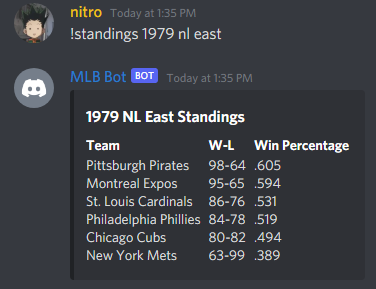
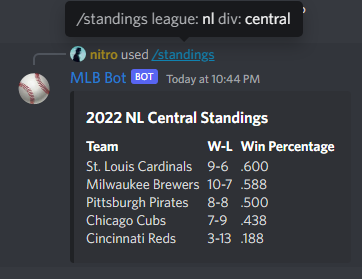
Moved to Pycord, reworked pretty much everything.

diff --git a/main.py b/main.py
@@ -4,15 +4,15 @@ import statsapi
 import pytz
 from datetime import datetime
 from dateutil import parser
-from dateutil.tz import tzutc, tzlocal
-from pybaseball import playerid_lookup, statcast_pitcher, standings, top_prospects
+from pybaseball import standings
 from datetime import date
 from dotenv import load_dotenv
-from discord.ext import commands
+from teamInfo import teamList
+from divInfo import divList
 
 load_dotenv()
 
-bot = commands.Bot(command_prefix="!")
+bot = discord.Bot()
 
 today = date.today()
 todayDate = today.strftime("%m/%d/%Y")
@@ -23,70 +23,58 @@ async def on_ready():
     print('We have logged in as {0.user}'.format(bot))
 
 
-@bot.command(name='player')
-async def player(ctx, firstName, lastName):
-    pid = playerid_lookup(lastName, firstName)
-    await ctx.send(pid)
+@bot.command(name='player', description="Display's a player's current season or career stats. Defaults to current season.")
+async def player(ctx, playername: discord.Option(str, required=True), scope: discord.Option(str, choices=["season"], default="season", required=False)):
+    statType=scope
+    player = statsapi.lookup_player(playername)
+    pid = player[0]['id']
+    playerName = player[0]['fullName']
+    position = player[0]['primaryPosition']['abbreviation']
+    
+    if position == "TWP":
+        twpData = statsapi.player_stat_data(pid, group="[hitting,pitching]", type=statType)
+        season = twpData['stats'][0]['season']
+        batting = twpData['stats'][0]['stats']
+        pitching = twpData['stats'][1]['stats']
 
+        battingStats = playerName + " " + season + " Batting Stats\n"  + str(batting['atBats']) + " AB\t" + str(batting['avg']) + " AVG\t" + str(batting['homeRuns']) + " HR\t" \
+        + str(batting['rbi']) + " RBI\n\n"
 
-@bot.command(name='prospects')
-async def prospects(ctx, team):
-    data = top_prospects(team)
-    rank = data.iloc[0:9, 0:1]
-    playerName = data.iloc[0:9, 1:2]
-    age = data.iloc[0:9, 2:3]
-    rank = rank.to_string(index=False, header=False)
-    playerName = playerName.to_string(index=False, header=False)
-    age = age.to_string(index=False, header=False)
-    embed = discord.Embed(title=team.capitalize() + " Top 10 Prospects")
-    embed.add_field(name="Rank", value=rank, inline=True)
-    embed.add_field(name="Player", value=playerName, inline=True)
-    embed.add_field(name="Age", value=age, inline=True)
-    await ctx.send(embed=embed)
+        pitchingStats = playername + " " + season + " Pitching Stats\n"  + str(pitching['wins']) + "-" + str(pitching['losses']) + " W/L\t" + str(pitching['era']) + " ERA\t" \
+        + str(pitching['inningsPitched']) + " IP\t" + str(pitching['gamesPlayed']) +" GP\t"
 
+        stats = battingStats + pitchingStats
 
-@bot.command(name='standings')
-async def divisionStandings(ctx, *args):
-    if(len(args) == 3):
-        year = int(args[0])
-        league = args[1]
-        div = args[2]
+        await ctx.respond(stats)
+    elif position == "P":
+        statData = statsapi.player_stat_data(pid, group="[pitching]", type=statType)
+        pitching = statData['stats'][0]['stats']
+        season = statData['stats'][0]['season']
+
+        stats = playerName + " " + season + " Pitching Stats\n\n"  + str(pitching['wins']) + "-" + str(pitching['losses']) + " W/L\t" + str(pitching['era']) + " ERA\t" \
+        + str(pitching['inningsPitched']) + " IP\t" + str(pitching['gamesPlayed']) +" GP\t"
+
+        await ctx.respond(stats)
     else:
-        year = today.year()
-        league = args[0]
-        div = args[1]
+        statData = statsapi.player_stat_data(pid, group="[hitting]", type=statType)
+        batting = statData['stats'][0]['stats']
+        season = statData['stats'][0]['season']
+
+        stats = playerName + " " + season + " Batting Stats\n"  + str(batting['atBats']) + " AB\t" + str(batting['avg']) + " AVG\t" + str(batting['homeRuns']) + " HR\t" \
+        + str(batting['rbi']) + " RBI\n\n"
+        await ctx.respond(stats)
+        
+
+@bot.command(name='standings', description="Displays division standings for specified year. Defaults to current year.")
+async def divisionStandings(ctx, league: discord.Option(str), div: discord.Option(str), year: discord.Option(str, required=False, default = date.today().year)):
+    await ctx.defer()
     divDisplay = (league.upper() + " " + div.capitalize())
-    if(league.upper() == "AL"):
-        if(div.upper() == "EAST"):
-            divPass = 0
-        elif(div.upper() == "CENTRAL"):
-            if(year >= 1994):
-                divPass = 1
+    for i in divList:
+        if (divDisplay == i['name']):
+            if year >= 1994:
+                divPass = i['postRealignmentID']
             else:
-                await ctx.send(divDisplay + " does not exist in that year.")
-        elif(div.upper() == "WEST"):
-            if(year <= 1994):
-                divPass = 1
-            else:
-                divPass = 2
-    elif(league.upper() == "NL"):
-        if(div.upper() == "EAST"):
-            if(year <= 1994):
-                divPass = 2
-            else:
-                divPass = 3
-        elif(div.upper() == "CENTRAL"):
-            if(year >= 1994):
-                divPass = 4
-            else:
-                await ctx.send(divDisplay + " does not exist in that year.")
-        elif(div.upper() == "WEST"):
-            if(year >= 1994):
-                divPass = 5
-            else:
-                divPass = 3
-    else:
-        await ctx.send("You have entered an invalid league.")
+                divPass = i['preRealignmentID']
     try:
         data = standings(year)[divPass]
         i = 0
@@ -106,23 +94,21 @@ async def divisionStandings(ctx, *args):
             j += 1
         winPct = data.iloc[0:j, 3:4]
         winPct = winPct.to_string(index=False, header=False)
-        embed = discord.Embed(title=str(year) + " " +
-                              divDisplay + " Standings")
+        embed = discord.Embed(title=str(year) + " " + divDisplay + " Standings")
         embed.add_field(name="Team", value=teamList, inline=True)
         embed.add_field(name="W-L", value=winLoss, inline=True)
         embed.add_field(name="Win Percentage", value=winPct, inline=True)
-        await ctx.send(embed=embed)
+        await ctx.respond(embed=embed)
     except UnboundLocalError:
-        pass
+        await ctx.respond("You have entered an invalid division.")
+    except TypeError:
+        await ctx.respond("You have entered a division that does not exist in " + str(year) + ".")
 
 
-@bot.command(name='games')
-async def dateGames(ctx, *args):
-    if (len(args) == 0):
-        datePass = today
-    else:
-        datePass = args[0]
-    games = statsapi.schedule(date=datePass)
+@bot.command(name='games', description="Displays all games for a specified date. Defaults to current day.")
+async def dateGames(ctx, date: discord.Option(str, required=False, default=today)):
+    await ctx.defer()
+    games = statsapi.schedule(date=date)
     timeZone = pytz.timezone("America/Detroit")
     now = datetime.now()
     gameText = ""
@@ -131,17 +117,29 @@ async def dateGames(ctx, *args):
         gameLocal = gameUtc.astimezone(timeZone)
         currentTime = now.astimezone(timeZone)
         gameTime = datetime.strftime(gameLocal, '%I:%M %p %Z')
+        for y in teamList:
+            if (x['away_name'] == y['name']):
+                awayTeam = y['fileCode'].upper()
+            if (x['home_name'] == y['name']):
+                homeTeam = y['fileCode'].upper()
         if (gameLocal > currentTime):
-            gameText += (x['away_name'] + " at " +
-                         x['home_name'] + " - " + gameTime + "\n")
+            gameText += (awayTeam + " at " +
+                         homeTeam + " - " + gameTime + "\n")
         else:
             if(x['status'] == "In Progress"):
-                gameText += (x['away_name'] + " (" + str(x['away_score']) + ") at " + x['home_name'] + " (" + str(
-                    x['home_score']) + ") - " + x['inning_state'].capitalize() + x['current_inning'] + "\n")
+                gameText += (awayTeam + " (" + str(x['away_score']) + ") at " + homeTeam + " (" + str(x['home_score']) + ") - " + x['inning_state'].capitalize() + " " + str(x['current_inning']) + "\n")
             else:
-                gameText += (x['away_name'] + " (" + str(x['away_score']) + ") at " +
-                             x['home_name'] + " (" + str(x['home_score']) + ") - " + x['status'] + "\n")
-    await ctx.send(gameText.rstrip())
+                gameText += (awayTeam + " (" + str(x['away_score']) + ") at " +
+                             homeTeam + " (" + str(x['home_score']) + ") - " + x['status'] + "\n")
+    await ctx.respond(gameText.rstrip())
 
+
+@bot.command(name='lastgame', description="Displays the line score from the specified team's last game.")
+async def lastGame(ctx, team: discord.Option(str, required=True)):
+    for y in teamList:
+        if (team.casefold() == y['teamName'].casefold()):
+            teamID = y['id']
+    lastGame = statsapi.last_game(teamID)
+    await ctx.respond("```"+ statsapi.linescore(lastGame) + "```")
 
 bot.run(os.getenv('TOKEN'))

diff --git a/teamInfo.py b/teamInfo.py
@@ -1,0 +1,31 @@
+teamList = [
+{'id': 109, 'name': 'Arizona Diamondbacks', 'teamCode': 'ari', 'fileCode': 'ari', 'teamName': 'D-backs', 'locationName': 'Phoenix', 'shortName': 'Arizona'}, 
+{'id': 144, 'name': 'Atlanta Braves', 'teamCode': 'atl', 'fileCode': 'atl', 'teamName': 'Braves', 'locationName': 'Atlanta', 'shortName': 'Atlanta'}, 
+{'id': 110, 'name': 'Baltimore Orioles', 'teamCode': 'bal', 'fileCode': 'bal', 'teamName': 'Orioles', 'locationName': 'Baltimore', 'shortName': 'Baltimore'}, 
+{'id': 111, 'name': 'Boston Red Sox', 'teamCode': 'bos', 'fileCode': 'bos', 'teamName': 'Red Sox', 'locationName': 'Boston', 'shortName': 'Boston'}, 
+{'id': 112, 'name': 'Chicago Cubs', 'teamCode': 'chn', 'fileCode': 'chc', 'teamName': 'Cubs', 'locationName': 'Chicago', 'shortName': 'Chi Cubs'}, 
+{'id': 145, 'name': 'Chicago White Sox', 'teamCode': 'cha', 'fileCode': 'cws', 'teamName': 'White Sox', 'locationName': 'Chicago', 'shortName': 'Chi White Sox'}, 
+{'id': 113, 'name': 'Cincinnati Reds', 'teamCode': 'cin', 'fileCode': 'cin', 'teamName': 'Reds', 'locationName': 'Cincinnati', 'shortName': 'Cincinnati'}, 
+{'id': 114, 'name': 'Cleveland Guardians', 'teamCode': 'cle', 'fileCode': 'cle', 'teamName': 'Guardians', 'locationName': 'Cleveland', 'shortName': 'Cleveland'}, 
+{'id': 115, 'name': 'Colorado Rockies', 'teamCode': 'col', 'fileCode': 'col', 'teamName': 'Rockies', 'locationName': 'Denver', 'shortName': 'Colorado'}, 
+{'id': 116, 'name': 'Detroit Tigers', 'teamCode': 'det', 'fileCode': 'det', 'teamName': 'Tigers', 'locationName': 'Detroit', 'shortName': 'Detroit'}, 
+{'id': 117, 'name': 'Houston Astros', 'teamCode': 'hou', 'fileCode': 'hou', 'teamName': 'Astros', 'locationName': 'Houston', 'shortName': 'Houston'}, 
+{'id': 118, 'name': 'Kansas City Royals', 'teamCode': 'kca', 'fileCode': 'kc', 'teamName': 'Royals', 'locationName': 'Kansas City', 'shortName': 'Kansas City'}, 
+{'id': 108, 'name': 'Los Angeles Angels', 'teamCode': 'ana', 'fileCode': 'laa', 'teamName': 'Angels', 'locationName': 'Anaheim', 'shortName': 'LA Angels'}, 
+{'id': 119, 'name': 'Los Angeles Dodgers', 'teamCode': 'lan', 'fileCode': 'lad', 'teamName': 'Dodgers', 'locationName': 'Los Angeles', 'shortName': 'LA Dodgers'}, 
+{'id': 146, 'name': 'Miami Marlins', 'teamCode': 'mia', 'fileCode': 'mia', 'teamName': 'Marlins', 'locationName': 'Miami', 'shortName': 'Miami'}, 
+{'id': 158, 'name': 'Milwaukee Brewers', 'teamCode': 'mil', 'fileCode': 'mil', 'teamName': 'Brewers', 'locationName': 'Milwaukee', 'shortName': 'Milwaukee'}, 
+{'id': 142, 'name': 'Minnesota Twins', 'teamCode': 'min', 'fileCode': 'min', 'teamName': 'Twins', 'locationName': 'Minneapolis', 'shortName': 'Minnesota'}, 
+{'id': 121, 'name': 'New York Mets', 'teamCode': 'nyn', 'fileCode': 'nym', 'teamName': 'Mets', 'locationName': 'Flushing', 'shortName': 'NY Mets'}, 
+{'id': 147, 'name': 'New York Yankees', 'teamCode': 'nya', 'fileCode': 'nyy', 'teamName': 'Yankees', 'locationName': 'Bronx', 'shortName': 'NY Yankees'}, 
+{'id': 133, 'name': 'Oakland Athletics', 'teamCode': 'oak', 'fileCode': 'oak', 'teamName': 'Athletics', 'locationName': 'Oakland', 'shortName': 'Oakland'}, 
+{'id': 143, 'name': 'Philadelphia Phillies', 'teamCode': 'phi', 'fileCode': 'phi', 'teamName': 'Phillies', 'locationName': 'Philadelphia', 'shortName': 'Philadelphia'},
+{'id': 134, 'name': 'Pittsburgh Pirates', 'teamCode': 'pit', 'fileCode': 'pit', 'teamName': 'Pirates', 'locationName': 'Pittsburgh', 'shortName': 'Pittsburgh'}, 
+{'id': 135, 'name': 'San Diego Padres', 'teamCode': 'sdn', 'fileCode': 'sd', 'teamName': 'Padres', 'locationName': 'San Diego', 'shortName': 'San Diego'}, 
+{'id': 137, 'name': 'San Francisco Giants', 'teamCode': 'sfn', 'fileCode': 'sf', 'teamName': 'Giants', 'locationName': 'San Francisco', 'shortName': 'San Francisco'}, 
+{'id': 136, 'name': 'Seattle Mariners', 'teamCode': 'sea', 'fileCode': 'sea', 'teamName': 'Mariners', 'locationName': 'Seattle', 'shortName': 'Seattle'}, 
+{'id': 138, 'name': 'St. Louis Cardinals', 'teamCode': 'sln', 'fileCode': 'stl', 'teamName': 'Cardinals', 'locationName': 'St. Louis', 'shortName': 'St. Louis'}, 
+{'id': 139, 'name': 'Tampa Bay Rays', 'teamCode': 'tba', 'fileCode': 'tb', 'teamName': 'Rays', 'locationName': 'St. Petersburg', 'shortName': 'Tampa Bay'}, 
+{'id': 140, 'name': 'Texas Rangers', 'teamCode': 'tex', 'fileCode': 'tex', 'teamName': 'Rangers', 'locationName': 'Arlington', 'shortName': 'Texas'}, 
+{'id': 141, 'name': 'Toronto Blue Jays', 'teamCode': 'tor', 'fileCode': 'tor', 'teamName': 'Blue Jays', 'locationName': 'Toronto', 'shortName': 'Toronto'}, 
+{'id': 120, 'name': 'Washington Nationals', 'teamCode': 'was', 'fileCode': 'was', 'teamName': 'Nationals', 'locationName': 'Washington', 'shortName': 'Washington'}]

diff --git a/divInfo.py b/divInfo.py
@@ -1,0 +1,7 @@
+divList = [
+{'name': 'AL East', 'preRealignmentID': 0, 'postRealignmentID': 0},
+{'name': 'AL Central', 'preRealignmentID': 'does not exist', 'postRealignmentID': 1},
+{'name': 'AL West', 'preRealignmentID': 1, 'postRealignmentID': 2},
+{'name': 'NL East', 'preRealignmentID': 2, 'postRealignmentID': 3},
+{'name': 'NL Central', 'preRealignmentID': 'does not exist', 'postRealignmentID': 4},
+{'name': 'NL West', 'preRealignmentID': 3, 'postRealignmentID': 5}]

diff --git a/README.md b/README.md
@@ -1,40 +1,81 @@
 # mlb-discord-bot
+
 ## About
-mlb-discord-bot is a Discord bot created in Python for displaying Major League Baseball stats and other information in Discord.
+
+mlb-discord-bot is a Discord bot written in Python for displaying Major League Baseball stats and other information. It's kind of jank and should probably not be used in production. To be honest, it's mainly a way for me to learn more about and tinker with APIs.
+
+# Quick Start
+
+1. Clone the repository:
+   
+   ```
+   git clone https://github.com/nitrowv/mlb-discord-bot.git
+   ```
+2. Create a virtual environment (optional):
+   ```
+   python3 -m venv <NAME OF YOUR VENV>
+   ```
+
+   and activate it:
+   ```
+   Windows: <NAME OF YOUR VENV>\Scripts\Activate.ps1
+
+   Linux:   source <NAME OF YOUR VENV>/bin/activate
+   ```
+
+3. Install required libraries:
+   ```
+   pip3 install -r requirements.txt
+   ```
+
+4. Obtain your Bot token from the Discord developer portal and place it in a ```.env``` file in the root directory in the format of:
+
+    ```
+    TOKEN=INSERT_YOUR_TOKEN_HERE
+    ```
+    Take care to ensure that you have generated an OAuth URL with the ```applications.commands``` permission.
+
+5. Run the script!
+
 # Current Commands
+
+As of April 26, 2022, the commands have been updated to use Discord's slash command notation.
+
 ```
-!standings [year] league division
+/standings league division [year]
 ```
 
-If no year supplied, displays current standings for the given league and division in an embed. If `year` is provided, displays the year's final standings for the supplied division.
+If no year provided, displays current standings for the given league and division in an embed. If `year` is provided, displays the year's final standings for the division.
 
 ![Standings](/.github/images/standings.png)
 
 ```
-!games [date]
+/games [date]
 ```
 
 Displays current day's games if `date` not given, otherwise displays games for supplied date.
-![Standings](/.github/images/games-with-date.png)
+
+![Games](/.github/images/games-with-date.png)
 
 ```
-!prospects team
+/player playerName
 ```
 
-Displays a list of the supplied team's top 10 prospects in an embed. Does not work for all teams due to some teams having a different URL for the data.
+Displays player's statistics for the current season. Functionality to output career or individual other seasons are in development.
 
-![Standings](/.github/images/prospects.png)
-
-```
-!player firstName lastName
-```
-
-Displays player's id numbers for MLB.com, Baseball-Reference, and Fangraphs, as well as the first and last years of Major League play.
 ![Standings](/.github/images/player.png)
+
+```
+/lastgame teamName
+```
+
+Displays the last line score for the given team.
+
+![Last Game](/.github/images/lastgame.png)
 
 # Credit
 This project was created by Tanner Johnston.
 
 Tools used to retrieve data are [pybaseball](https://github.com/jldbc/pybaseball), created by James LeDoux; and [MLB-StatsAPI](https://github.com/toddrob99/MLB-StatsAPI), created by Todd Roberts.
 
-Communication with Discord is handled by the [discord.py](https://github.com/Rapptz/discord.py) API wrapper created by Rapptz.
+Communication with Discord is handled by the [Pycord](https://github.com/Pycord-Development/pycord) API wrapper.
